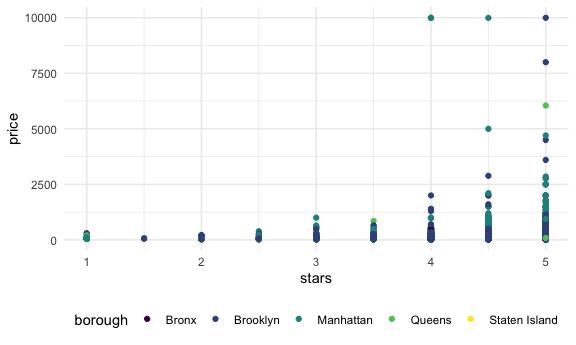
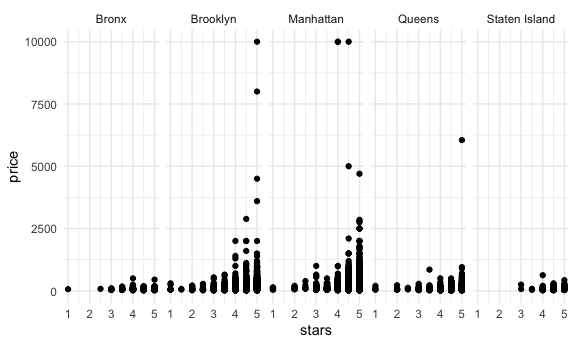
lat long

diff --git a/case_study.md b/case_study.md
@@ -113,8 +113,83 @@ Case Study: Is price correlated with review score?
 ``` r
 nyc_airbnb %>% 
   drop_na(stars) %>% 
-  ggplot(aes(x = stars, y = price, color = borough)) + 
-  geom_point()
+  ggplot(aes(x = stars, y = price)) + 
+  geom_point() +
+  facet_grid(. ~ borough)
 ```
 
 <img src="case_study_files/figure-gfm/unnamed-chunk-6-1.png" width="90%" />
+
+With the class
+
+``` r
+nyc_airbnb %>% 
+  ggplot(aes(x=stars, y = price)) + 
+  geom_point() + 
+  facet_grid(. ~ room_type)
+```
+
+    ## Warning: Removed 10037 rows containing missing values (geom_point).
+
+<img src="case_study_files/figure-gfm/unnamed-chunk-7-1.png" width="90%" />
+
+Price and neighborhood
+
+``` r
+nyc_airbnb %>% 
+  filter(borough == "Manhattan") %>% 
+  group_by(neighbourhood) %>% 
+  summarize(mean_price = mean(price, na.rm = TRUE)) %>% 
+  arrange(mean_price)
+```
+
+    ## # A tibble: 32 × 2
+    ##    neighbourhood       mean_price
+    ##    <chr>                    <dbl>
+    ##  1 Marble Hill               83.6
+    ##  2 Inwood                    86.5
+    ##  3 Washington Heights        90.1
+    ##  4 Morningside Heights      107. 
+    ##  5 Harlem                   117. 
+    ##  6 Roosevelt Island         122. 
+    ##  7 Two Bridges              123. 
+    ##  8 East Harlem              128. 
+    ##  9 Chinatown                158. 
+    ## 10 Upper East Side          172. 
+    ## # … with 22 more rows
+
+``` r
+nyc_airbnb %>% 
+  filter(borough == "Manhattan", price <= 1000) %>% 
+  mutate(neighbourhood = fct_reorder(neighbourhood, price)) %>% 
+  ggplot(aes(x = neighbourhood, y = price)) + 
+  geom_boxplot() + 
+  coord_flip() + 
+  facet_grid(. ~ room_type) 
+```
+
+<img src="case_study_files/figure-gfm/unnamed-chunk-8-1.png" width="90%" />
+
+Being close to a subway/ major landmark? \* Not prepared to answer this
+because we don’t have this data in the df
+
+## PRice vs. location
+
+``` r
+nyc_airbnb %>% 
+  sample_n(5000) %>% 
+  ggplot(aes(x = lat, y = long, color = price)) + 
+  geom_point()
+```
+
+<img src="case_study_files/figure-gfm/unnamed-chunk-9-1.png" width="90%" />
+
+``` r
+nyc_airbnb %>% 
+  filter(price < 500) %>% 
+  sample_n(5000) %>% 
+  ggplot(aes(x = lat, y = long, color = price)) + 
+  geom_point(alpha = .5)
+```
+
+<img src="case_study_files/figure-gfm/unnamed-chunk-9-2.png" width="90%" />
